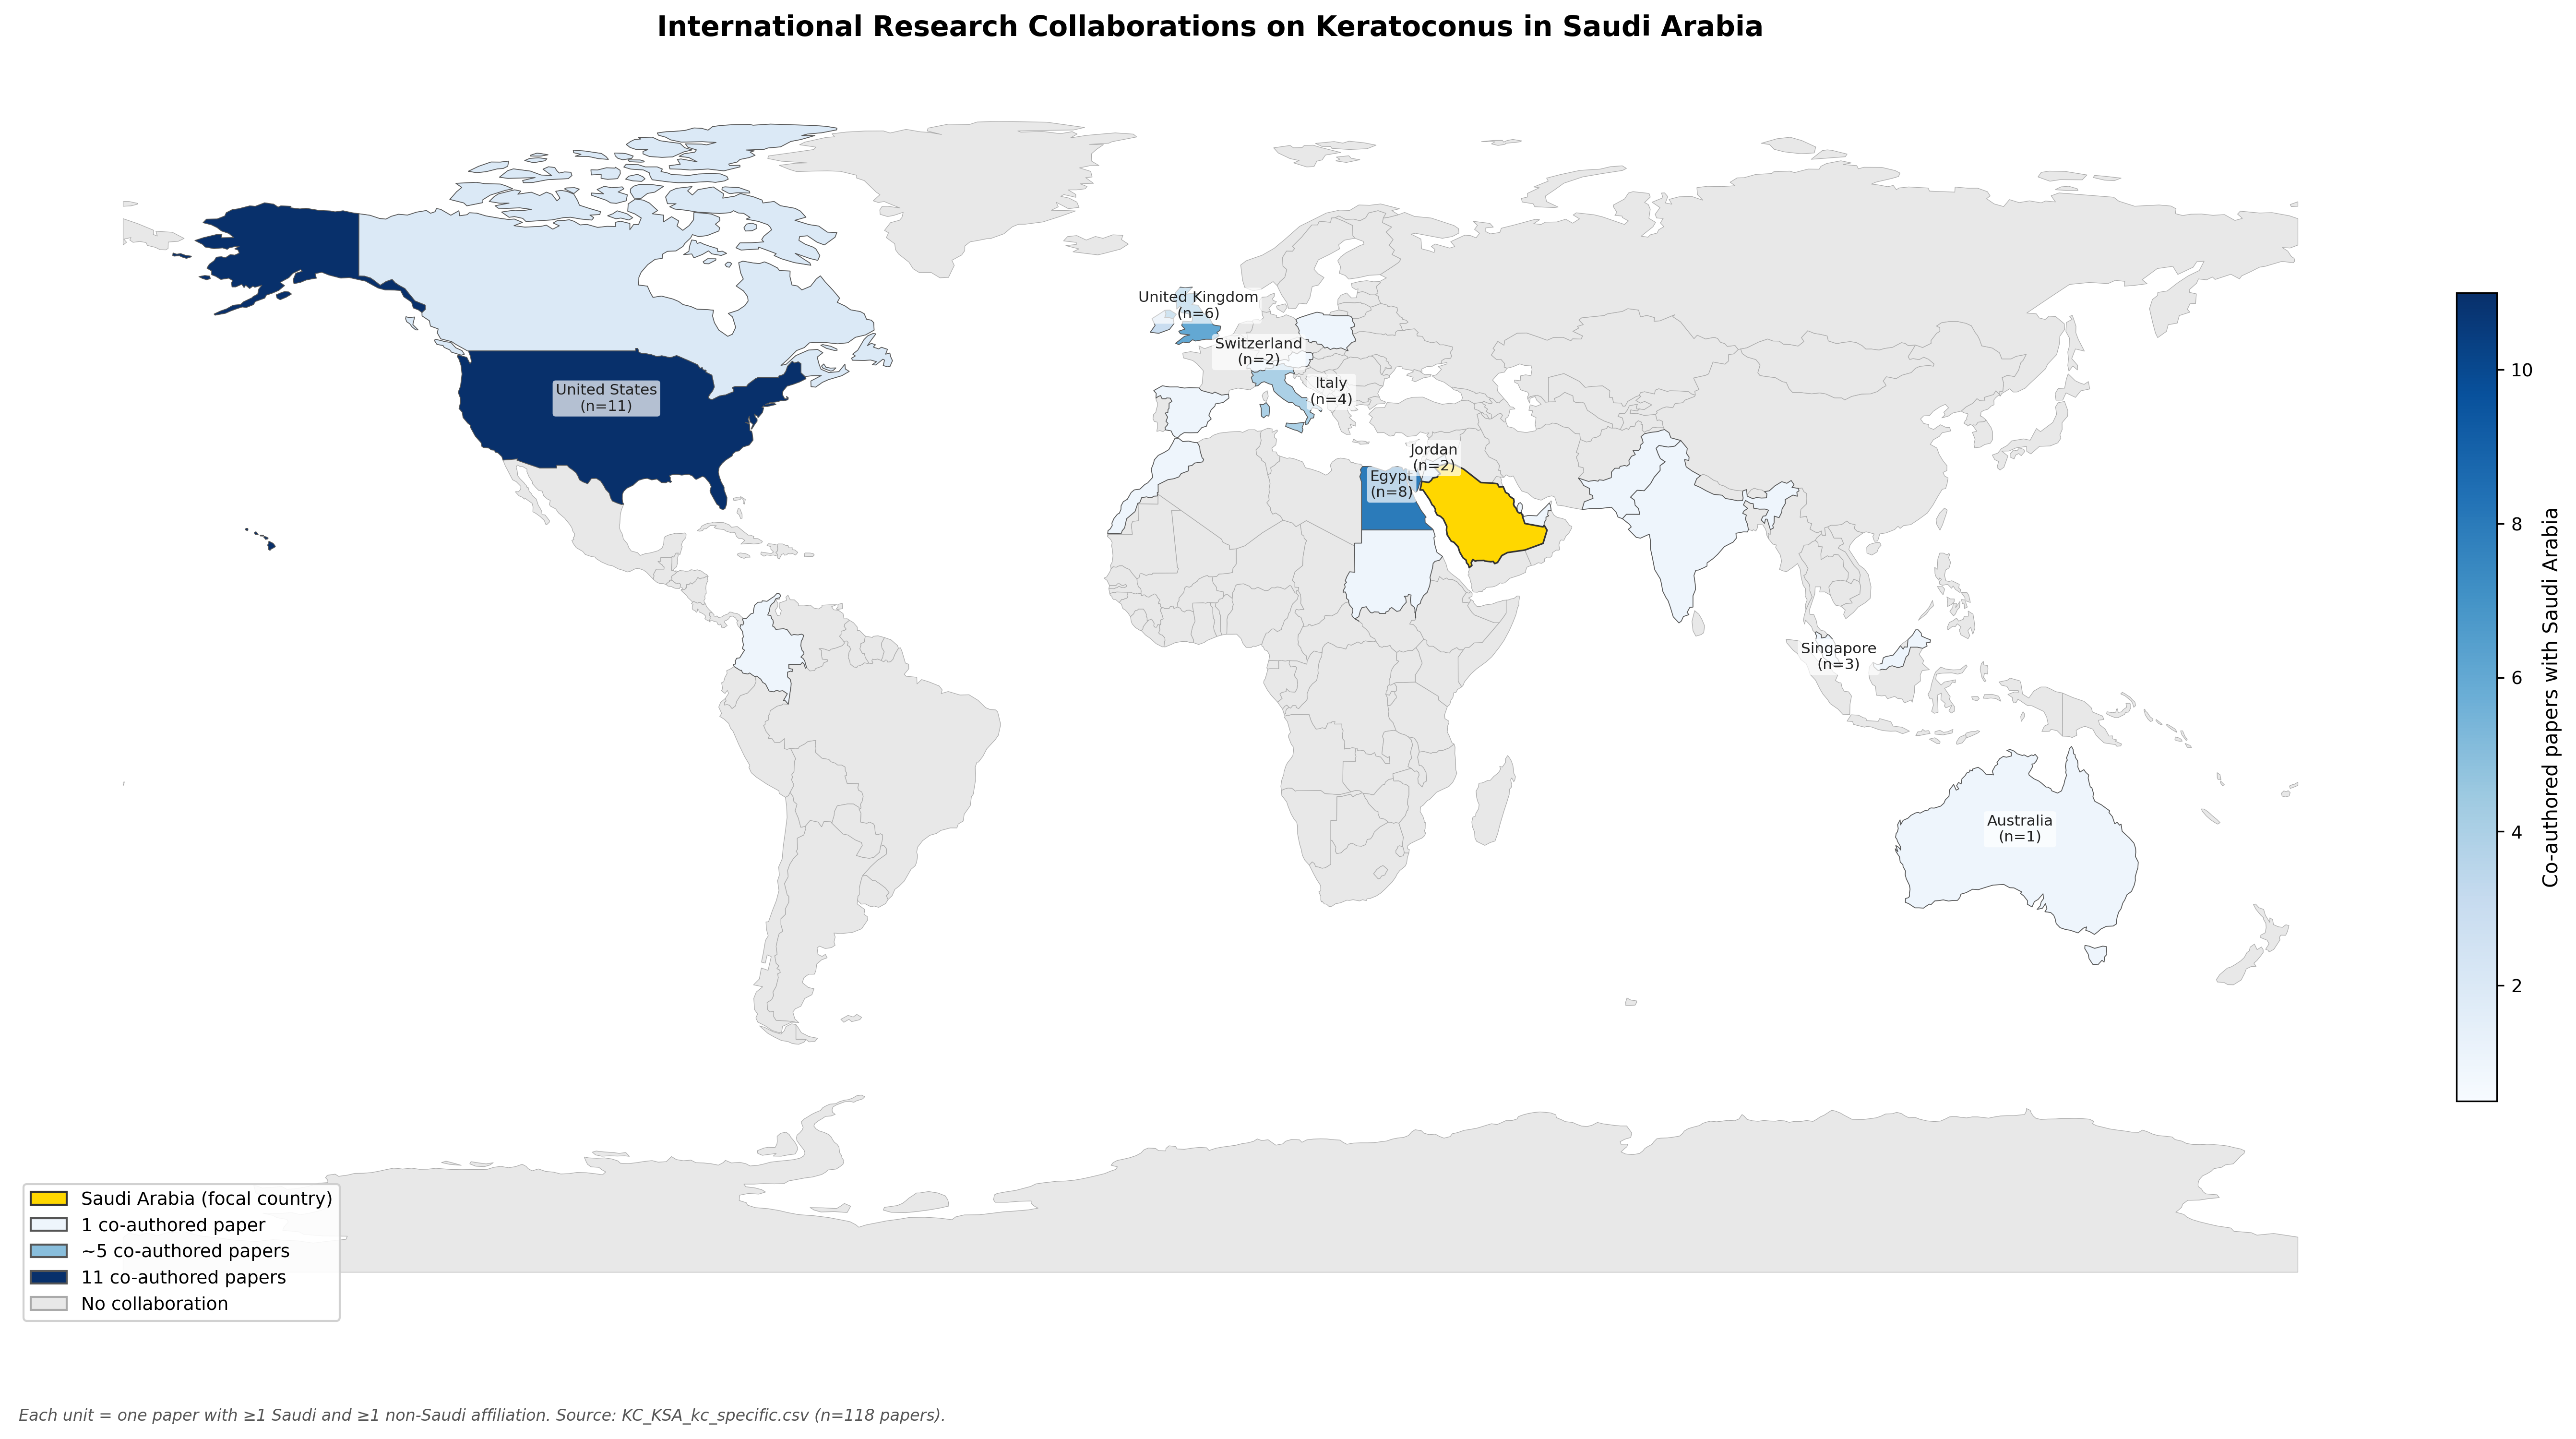
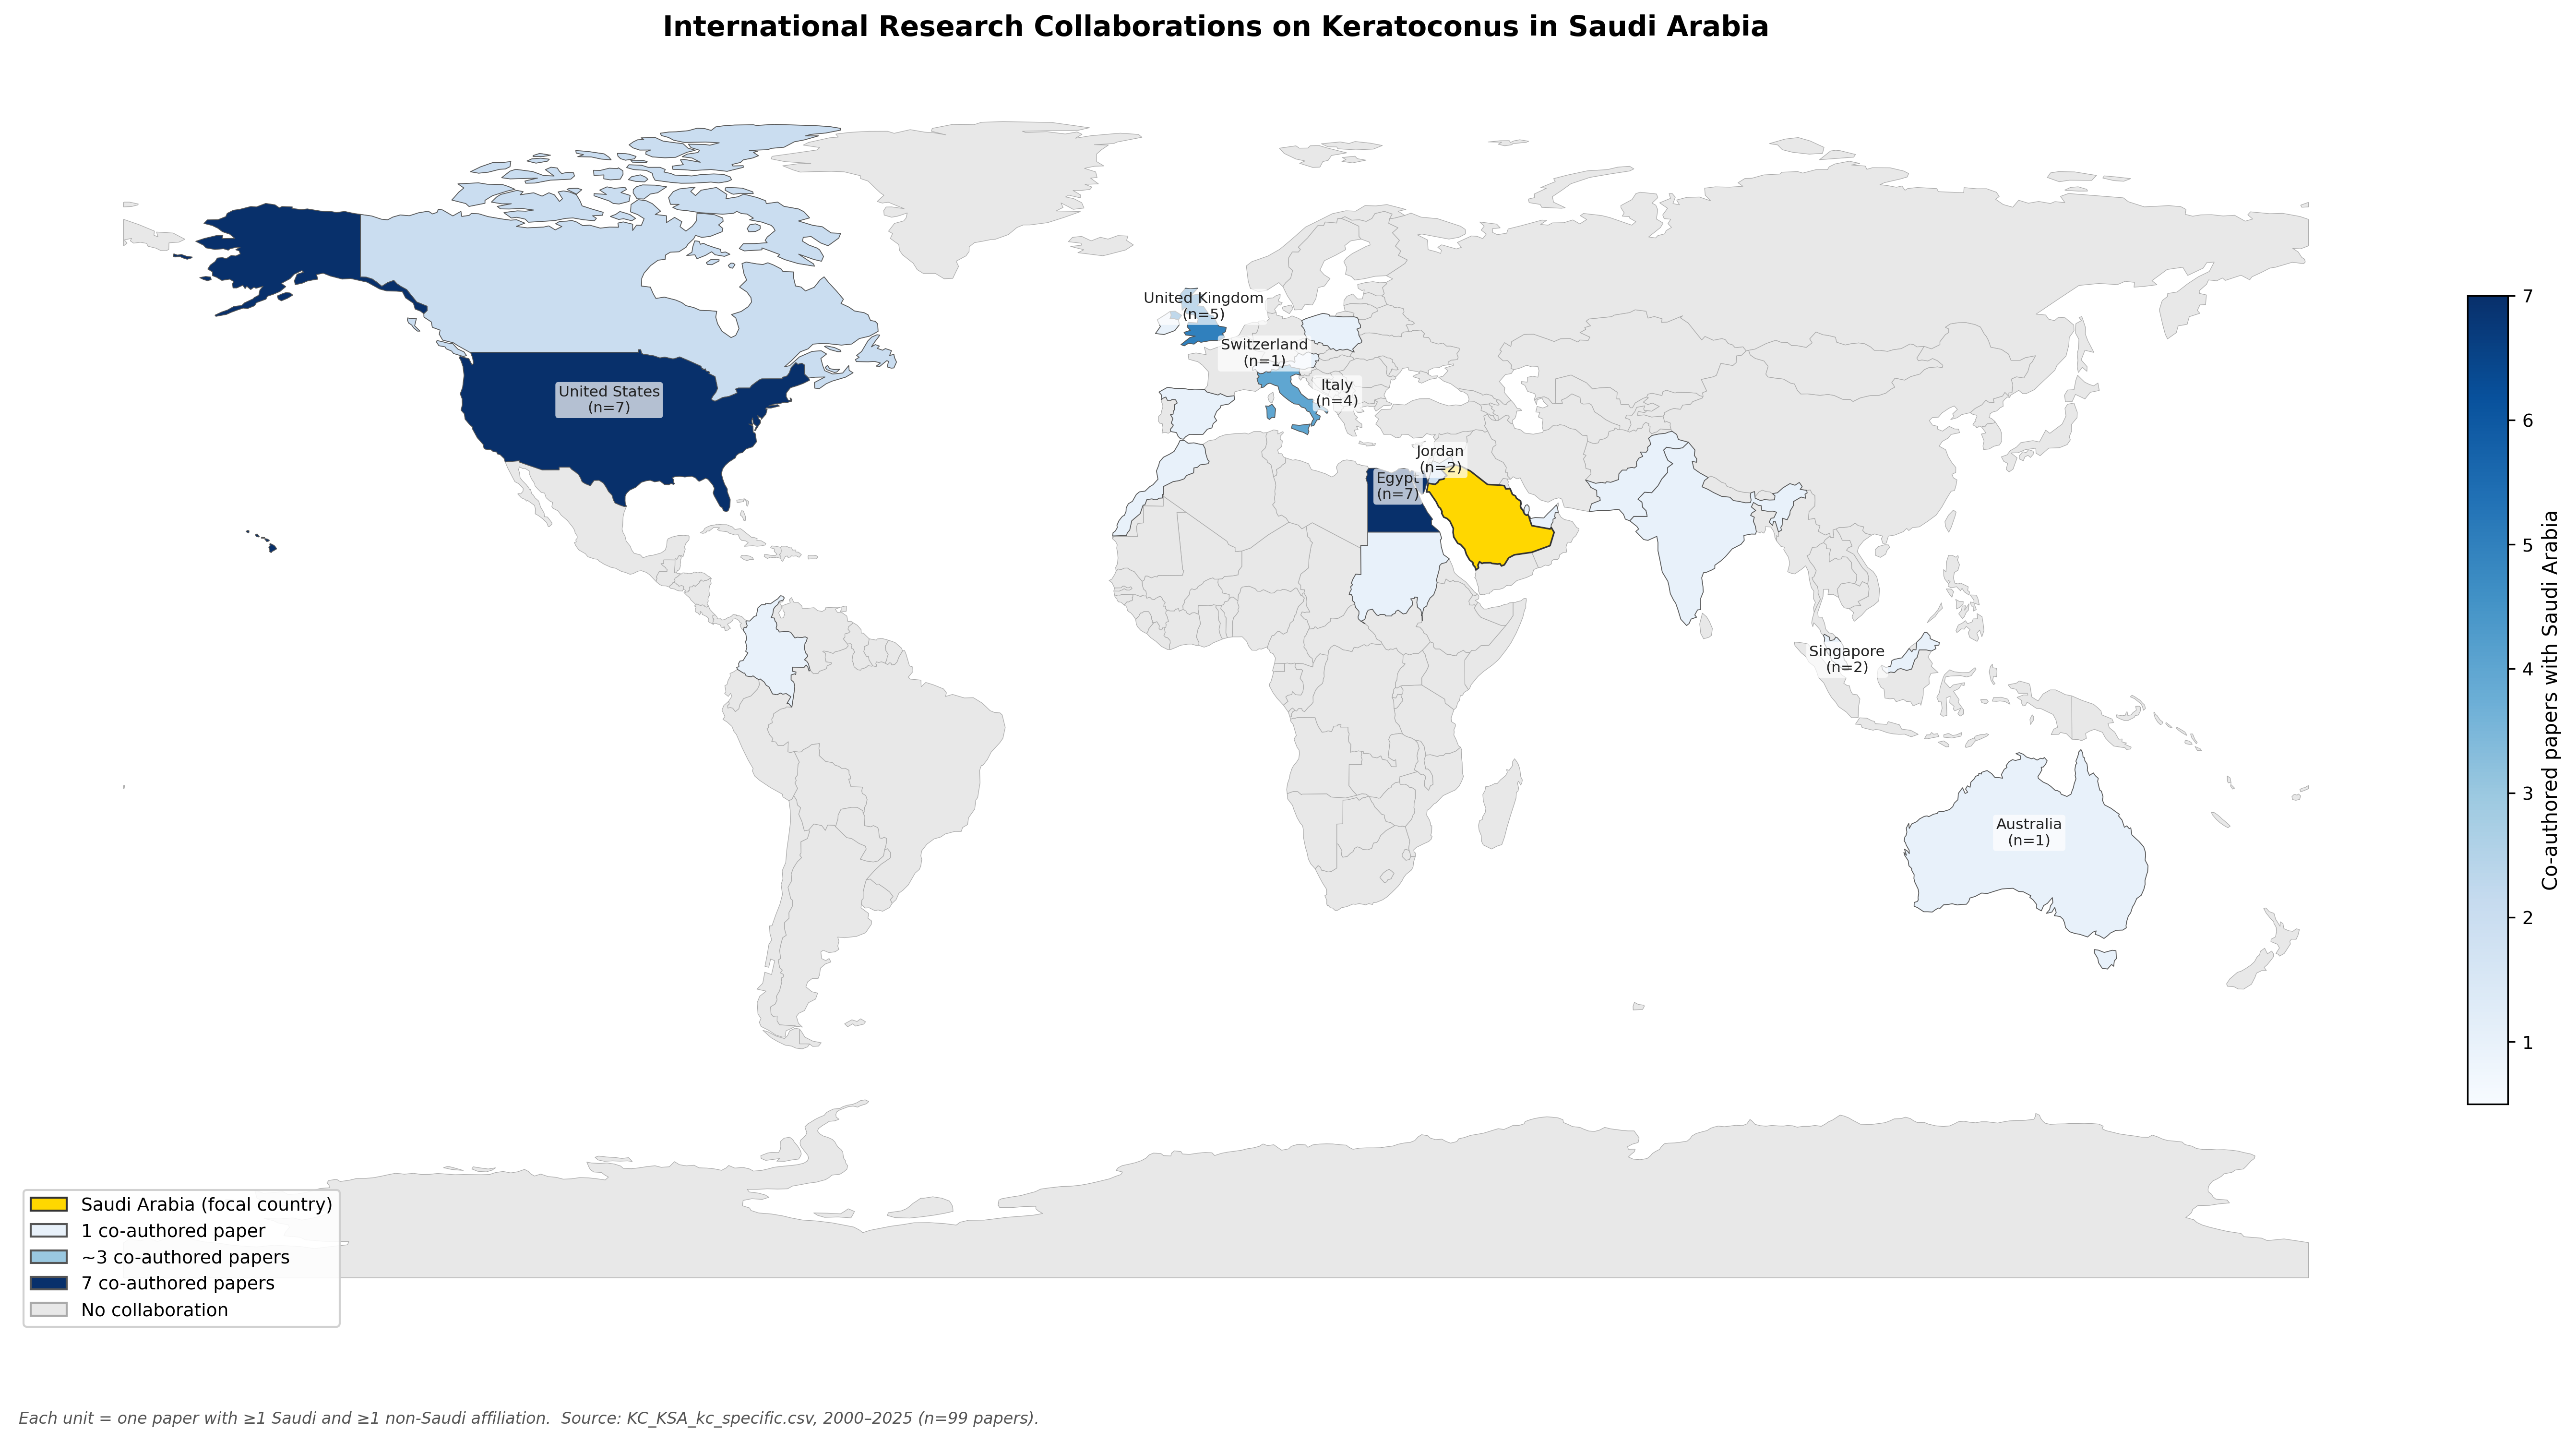
office

diff --git a/generate_fig1_prisma.py b/generate_fig1_prisma.py
@@ -1,0 +1,161 @@
+import matplotlib.pyplot as plt
+from matplotlib.patches import FancyBboxPatch
+from pathlib import Path
+
+base_path = Path("/Users/kqqs967/Library/CloudStorage/OneDrive-AZCollaboration/CORE/PhD/KC_KSA")
+
+fig, ax = plt.subplots(figsize=(8, 17), dpi=300)
+ax.set_xlim(0, 8)
+ax.set_ylim(0, 17)
+ax.axis('off')
+
+C_HEADER  = '#2E86AB'
+C_BODY    = '#EAF4FB'
+C_EXCL    = '#F5A623'
+C_SPLIT_L = '#3BB273'
+C_SPLIT_R = '#E76F51'
+C_PERIOD  = '#6A5ACD'   # purple — year-restriction step
+C_INCL    = '#5C4B8A'
+C_TEXT    = '#1a1a1a'
+C_ARROW   = '#444444'
+BW, BX, CX = 5.8, 1.1, 4.0
+
+def draw_box(x, y, w, h, header_text, body_lines,
+             header_color=C_HEADER, body_color=C_BODY, fontsize=9):
+    hh = h * 0.22
+    ax.add_patch(FancyBboxPatch((x, y), w, h,
+                                boxstyle="round,pad=0.06",
+                                facecolor=body_color, edgecolor='#555',
+                                linewidth=1.1, zorder=2))
+    ax.add_patch(FancyBboxPatch((x, y + h - hh), w, hh,
+                                boxstyle="round,pad=0.06",
+                                facecolor=header_color, edgecolor='#555',
+                                linewidth=1.1, zorder=3))
+    ax.text(x + w/2, y + h - hh/2, header_text,
+            ha='center', va='center', fontsize=fontsize,
+            fontweight='bold', color='white', zorder=4)
+    n = len(body_lines)
+    gap = (h - hh) / (n + 1)
+    for i, line in enumerate(body_lines):
+        ax.text(x + 0.15, y + h - hh - gap * (i + 1),
+                line, ha='left', va='center',
+                fontsize=fontsize - 0.5, color=C_TEXT, zorder=4)
+
+def arrow_down(x, y_from, y_to):
+    ax.annotate('', xy=(x, y_to), xytext=(x, y_from),
+                arrowprops=dict(arrowstyle='->', color=C_ARROW,
+                                lw=1.6, mutation_scale=14))
+
+def excl_note(y, text):
+    """Amber exclusion box anchored to the right edge of the main column."""
+    x_start = BX + BW
+    x_note  = x_start + 0.15
+    ax.annotate(text, xy=(x_note, y), fontsize=7.8, color='#7A4800',
+                ha='left', va='center',
+                bbox=dict(boxstyle='round,pad=0.35', facecolor='#FFF3CD',
+                          edgecolor=C_EXCL, linewidth=1.0))
+    ax.plot([x_start, x_note - 0.05], [y, y],
+            color=C_EXCL, lw=1.0, linestyle='--', zorder=3)
+
+# ── Title ─────────────────────────────────────────────────────────────────────
+ax.text(4.0, 16.72, 'PRISMA-ScR Flow Diagram:',
+        ha='center', va='center', fontsize=10.5,
+        fontweight='bold', color=C_TEXT)
+ax.text(4.0, 16.38, 'Study Selection and Dataset Construction',
+        ha='center', va='center', fontsize=9.5,
+        fontstyle='italic', color='#333333')
+
+# ── 1. IDENTIFICATION  (y 13.9 – 15.9) ───────────────────────────────────────
+draw_box(BX, 13.9, BW, 2.0, 'IDENTIFICATION',
+         ['PubMed records         n = 242',
+          'Scopus records         n = 1,281',
+          'Combined               n = 1,523'])
+arrow_down(CX, 13.9, 13.2)
+
+# ── 2. SCREENING  (y 11.2 – 13.2) ────────────────────────────────────────────
+draw_box(BX, 11.2, BW, 2.0, 'SCREENING',
+         ['Duplicates removed by DOI     n = 267',
+          'Duplicates removed by title   n = 13',
+          'After deduplication           n = 1,243'])
+excl_note(12.35, 'Duplicates\nn = 280')
+arrow_down(CX, 11.2, 10.5)
+
+# ── 3. ELIGIBILITY  (y 8.6 – 10.5) ───────────────────────────────────────────
+draw_box(BX, 8.6, BW, 1.9, 'ELIGIBILITY',
+         ['Non-Saudi affiliations excluded   n = 876',
+          'Records with Saudi affiliation    n = 367'])
+excl_note(9.65, 'Non-Saudi\nn = 876')
+arrow_down(CX, 8.6, 7.85)
+
+# ── 4. YEAR RESTRICTION  (y 6.8 – 7.85) ─────────────────────────────────────
+draw_box(BX, 6.8, BW, 1.05,
+         'YEAR RESTRICTION  (2000 – 2025)',
+         ['Out-of-period excluded   n = 44  (21 pre-2000 + 23 from 2026)',
+          'Records retained         n = 323'],
+         header_color=C_PERIOD, body_color='#F0EEF8')
+excl_note(7.32, 'Out-of-period\nn = 44')
+arrow_down(CX, 6.8, 6.1)
+
+# ── 5. INCLUDED banner  (y 5.82 – 6.1) ───────────────────────────────────────
+ax.add_patch(FancyBboxPatch((BX, 5.82), BW, 0.30,
+                            boxstyle="round,pad=0.04",
+                            facecolor=C_INCL, edgecolor='#333355',
+                            linewidth=1.1, zorder=3))
+ax.text(CX, 5.97, 'INCLUDED',
+        ha='center', va='center', fontsize=9.5,
+        fontweight='bold', color='white', zorder=4)
+
+# Horizontal split at y = 5.82
+LX, RX = 2.3, 5.7
+ax.plot([LX, RX], [5.82, 5.82], color=C_ARROW, lw=1.6, zorder=3)
+ax.annotate('', xy=(LX, 3.92), xytext=(LX, 5.82),
+            arrowprops=dict(arrowstyle='->', color=C_ARROW,
+                            lw=1.6, mutation_scale=14))
+ax.annotate('', xy=(RX, 3.92), xytext=(RX, 5.82),
+            arrowprops=dict(arrowstyle='->', color=C_ARROW,
+                            lw=1.6, mutation_scale=14))
+
+# ── BROAD DATASET  (left, y 0.6 – 3.92) ──────────────────────────────────────
+draw_box(0.2, 0.6, 3.9, 3.32,
+         'BROAD DATASET  (n = 323)',
+         ['All Saudi-affiliated records',
+          'retained within study period.',
+          '',
+          'Used for:',
+          '  \u2022 Annual trend analysis',
+          '  \u2022 International collaboration',
+          '  \u2022 Journal distribution'],
+         header_color=C_SPLIT_L, body_color='#EBF7F1')
+
+# ── KC-SPECIFIC DATASET  (right, y 0.6 – 3.92) ───────────────────────────────
+draw_box(4.2, 0.6, 3.6, 3.32,
+         'KC-SPECIFIC  (n = 99)',
+         ['Topic-relevance filter applied.',
+          '224 non-KC records excluded.',
+          '',
+          'Used for:',
+          '  \u2022 Institutional analysis',
+          '  \u2022 Citation analysis',
+          '  \u2022 H-index  (h\u202f=\u202f18)'],
+         header_color=C_SPLIT_R, body_color='#FDF2EE')
+
+# Exclusion note off right edge of KC box
+ax.annotate('Excluded\nn = 224', xy=(7.95, 2.1),
+            fontsize=7.8, color='#7A4800', ha='left', va='center',
+            bbox=dict(boxstyle='round,pad=0.35', facecolor='#FFF3CD',
+                      edgecolor=C_EXCL, linewidth=1.0))
+ax.plot([4.2 + 3.6, 7.9], [2.1, 2.1],
+        color=C_EXCL, lw=1.0, linestyle='--', zorder=3)
+
+# ── Save ──────────────────────────────────────────────────────────────────────
+plt.tight_layout(pad=0.3)
+for suffix in ('jpg', 'png'):
+    out = base_path / f'fig_prisma_flow.{suffix}'
+    kwargs = dict(dpi=300, bbox_inches='tight', format=suffix)
+    if suffix == 'jpg':
+        kwargs['pil_kwargs'] = {'quality': 95}
+    plt.savefig(out, **kwargs)
+    size_kb = out.stat().st_size / 1024
+    flag = '\u2705' if size_kb < 1024 else '\u26a0\ufe0f  EXCEEDS 1024 KB'
+    print(f'\u2713 Saved {suffix.upper()}: {out.name}  ({size_kb:.0f} KB) {flag}')
+plt.close()

diff --git a/generate_table1_fig1.py b/generate_table1_fig1.py
@@ -129,9 +129,11 @@ print("\n" + "="*80)
 print("FIGURE 1: ANNUAL PUBLICATION TREND")
 print("="*80)
 
-# Filter to analysis period: 2000-2025 (exclude pre-2000 sparse years and partial 2026)
-df = df[df['year'].between(2000, 2025)].copy()
+# Filter to analysis period: 2000-2025
+df = df[(df['year'] >= 2000) & (df['year'] <= 2025)].copy()
+assert len(df) == 323, f"Expected 323 rows, got {len(df)}"
 total_records = len(df)
+print(f"Broad dataset 2000-2025: {total_records} records ✓")
 
 # Count publications per year
 pub_per_year = df.groupby('year').size().reset_index(name='count')
@@ -143,11 +145,8 @@ print(pub_per_year.head(10).to_string(index=False))
 # Create figure with high DPI for publication
 fig, ax = plt.subplots(figsize=(14, 8), dpi=300)
 
-# Separate 2025 (most recent complete year) — no partial-year hatching needed
-complete_years = pub_per_year.copy()
-
 # Plot bars for all years 2000-2025
-bars_complete = ax.bar(complete_years['year'], complete_years['count'],
+bars_complete = ax.bar(pub_per_year['year'], pub_per_year['count'],
                         color='#2E86AB', alpha=0.8, width=0.8, edgecolor='black', linewidth=0.5,
                         label='Complete year')
 
@@ -168,14 +167,6 @@ vision_year = 2016
 ax.axvline(x=cxl_year, color='#F18F01', linestyle='--', linewidth=2.5, alpha=0.7, label='2008: CXL widely adopted')
 ax.axvline(x=vision_year, color='#C73E1D', linestyle='--', linewidth=2.5, alpha=0.7, label='2016: Saudi Vision 2030')
 
-# Mark 2002-2003 gap (real data artifact) - more visible
-ax.axvspan(2001.5, 2003.5, alpha=0.15, color='#FFB6C6', zorder=1)
-
-# Add annotation for 2002-2003 gap
-ax.text(2002.5, ax.get_ylim()[1] * 0.95, 'No publications\nindexed 2002-2003', 
-       ha='center', fontsize=9, style='italic', fontweight='bold',
-       bbox=dict(boxstyle='round,pad=0.5', facecolor='#FFB6C6', alpha=0.9, edgecolor='red', linewidth=1.5))
-
 # Find peak publication year and add annotation
 peak_year_data = pub_per_year[pub_per_year['year'] <= 2025]
 peak_idx = peak_year_data['count'].idxmax()
@@ -194,7 +185,7 @@ ax.annotate(f'Peak: {peak_count} publications',
 # Labels and formatting
 ax.set_xlabel('Year', fontsize=13, fontweight='bold')
 ax.set_ylabel('Number of Publications', fontsize=13, fontweight='bold')
-ax.set_title('Annual Publication Trend: Keratoconus in Saudi Arabia (2000–2025)',
+ax.set_title('Annual Publication Trend: Keratoconus in Saudi Arabia (2000-2025)',
              fontsize=15, fontweight='bold', pad=20)
 
 # Grid
@@ -204,13 +195,7 @@ ax.set_axisbelow(True)
 # Set y-axis limits
 ax.set_ylim(0, 58)
 
-# Create custom legend entries
-pink_patch = mpatches.Patch(color='#FFB6C6', alpha=0.15, label='Early period (sparse data)')
 handles, labels = ax.get_legend_handles_labels()
-handles.append(pink_patch)
-labels.append('Early period (sparse data)')
-
-# Update legend with custom patch
 ax.legend(handles, labels, loc='upper left', fontsize=10, framealpha=0.95)
 
 # Add statistics text box

diff --git a/generate_fig2_map.py b/generate_fig2_map.py
@@ -48,9 +48,13 @@ def extract_country(aff_segment):
     return NAME_MAP.get(last)
 
 df = pd.read_csv(base_path / "KC_KSA_kc_specific.csv")
+df = df[(df['year'] >= 2000) & (df['year'] <= 2025)]
+assert len(df) == 99, f"Expected 99 rows, got {len(df)}"
+print(f"KC-specific 2000-2025: {len(df)} records ✓")
 
 # Per paper: collect unique countries, then count Saudi co-authorship pairs
 collab_counter = Counter()
+collab_total = 0
 for raw in df["affiliations"].dropna():
     countries = set()
     for seg in raw.split(";"):
@@ -58,11 +62,14 @@ for raw in df["affiliations"].dropna():
         if c:
             countries.add(c)
     if "Saudi Arabia" in countries:
-        for c in countries:
-            if c != "Saudi Arabia":
+        non_saudi = countries - {"Saudi Arabia"}
+        if non_saudi:
+            collab_total += 1
+            for c in non_saudi:
                 collab_counter[c] += 1
 
-print("Collaboration counts (papers co-authored with Saudi Arabia):")
+print(f"\nInternationally collaborative papers: {collab_total} / {len(df)} ({collab_total/len(df)*100:.1f}%)")
+print("\nPer-country co-authored paper counts (descending):")
 for country, n in sorted(collab_counter.items(), key=lambda x: -x[1]):
     print(f"  {n:3d}  {country}")
 
@@ -143,8 +150,8 @@ ax.set_title(
 ax.set_axis_off()
 
 fig.text(0.01, 0.01,
-         "Each unit = one paper with ≥1 Saudi and ≥1 non-Saudi affiliation. "
-         "Source: KC_KSA_kc_specific.csv (n=118 papers).",
+         f"Each unit = one paper with ≥1 Saudi and ≥1 non-Saudi affiliation.  "
+         f"Source: KC_KSA_kc_specific.csv, 2000–2025 (n=99 papers).",
          fontsize=8, color="#555555", style="italic")
 
 plt.tight_layout(rect=[0, 0.03, 1, 1])

diff --git a/generate_geographic_analysis.py b/generate_geographic_analysis.py
@@ -11,7 +11,8 @@ kc_specific_file = base_path / "KC_KSA_kc_specific.csv"
 
 print("Loading KC_KSA_kc_specific.csv...")
 df = pd.read_csv(kc_specific_file)
-df = df[df['year'].between(2000, 2025)].copy()
+df = df[(df['year'] >= 2000) & (df['year'] <= 2025)].copy()
+assert len(df) == 99, f"Expected 99 rows, got {len(df)}"
 
 print(f"Total KC-specific records (2000-2025): {len(df)}")
 
@@ -28,7 +29,7 @@ def extract_institutions(affiliation_str):
 # Order matters: more specific patterns should come first.
 CANONICAL_INSTITUTIONS = [
     ("King Khaled Eye Specialist Hospital",
-     ["king khaled eye", "king khalid eye", "kkesh"]),
+     ["king khaled eye specialist", "king khalid eye specialist", "kkesh"]),
     ("King Saud University",
      ["king saud university", "king saud univ", " ksu"]),
     ("King Saud Medical City",
@@ -37,16 +38,20 @@ CANONICAL_INSTITUTIONS = [
      ["king abdulaziz university", "king abdulaziz univ", " kau"]),
     ("King Abdulaziz University Hospital",
      ["king abdulaziz university hospital"]),
+    ("King Abdulaziz Specialist Hospital Al Jouf",
+     ["king abdulaziz specialist hospital"]),
     ("King Saud Bin Abdulaziz University for Health Sciences (Riyadh)",
      ["king saud bin abdulaziz university for health sciences, riyadh",
       "king saud bin abdulaziz university for health sciences (ksau-hs), riyadh",
       "ksau-hs), riyadh"]),
     ("King Saud Bin Abdulaziz University for Health Sciences (Jeddah)",
-     ["king saud bin abdulaziz"]),  # catch-all: remaining strings are Jeddah
+     ["king saud bin abdulaziz"]),
     ("King Abdullah International Medical Research Center",
      ["king abdullah international medical research"]),
     ("King Fahad Armed Forces Hospital",
      ["king fahad armed forces"]),
+    ("King Khalid University Abha",
+     ["king khalid university"]),
     ("Dhahran Eye Specialist Hospital",
      ["dhahran eye"]),
     ("Magrabi Eye Hospital",
@@ -61,8 +66,6 @@ CANONICAL_INSTITUTIONS = [
      ["university of hafr al batin", "hafr al batin"]),
     ("Newcastle University",
      ["newcastle university", "newcastle upon tyne"]),
-    ("King Khalid University Abha",
-     ["king khalid university, abha"]),
     ("National Guard Hospital Medina",
      ["national guard hospital, medina", "national guard hospital, al-madinah"]),
     ("Taibah University",

diff --git a/generate_fig6_themes.py b/generate_fig6_themes.py
@@ -59,9 +59,12 @@ def parse_keywords(s):
     return tokens
 
 df = pd.read_csv(base_path / "KC_KSA_kc_specific_enriched.csv")
+df = df[(df['year'] >= 2000) & (df['year'] <= 2025)].copy()
+assert len(df) == 99, f"Expected 99 rows, got {len(df)}"
+print(f"KC-specific 2000-2025: {len(df)} records ✓")
 
-early_df = df[df["year"].between(2000, 2012)]
-late_df  = df[df["year"].between(2013, 2024)]
+early_df = df[(df["year"] >= 2000) & (df["year"] <= 2012)]
+late_df  = df[(df["year"] >= 2013) & (df["year"] <= 2024)]
 
 early_kw = Counter(k for s in early_df["all_keywords"].dropna() for k in parse_keywords(s))
 late_kw  = Counter(k for s in late_df["all_keywords"].dropna()  for k in parse_keywords(s))
@@ -80,6 +83,11 @@ shared    = early_set & late_set
 print(f"Early period keywords with data: {len(early_kw)} unique, showing top {N_EARLY}")
 print(f"Late  period keywords with data: {len(late_kw)} unique, showing top {N_LATE}")
 print(f"Shared (bold): {sorted(shared)}")
+print(f"\nKeratoconus frequency:")
+print(f"  Early 2000-2012 : {early_kw.get('keratoconus', 0)}")
+print(f"  Late  2013-2024 : {late_kw.get('keratoconus', 0)}")
+print(f"\nEarly period papers : {len(early_df)} | Late period papers: {len(late_df)}")
+print(f"Papers outside periods (2025): {len(df) - len(early_df) - len(late_df)}")
 
 # ── Plot ──────────────────────────────────────────────────────────────────────
 TEAL   = "#2A9D8F"